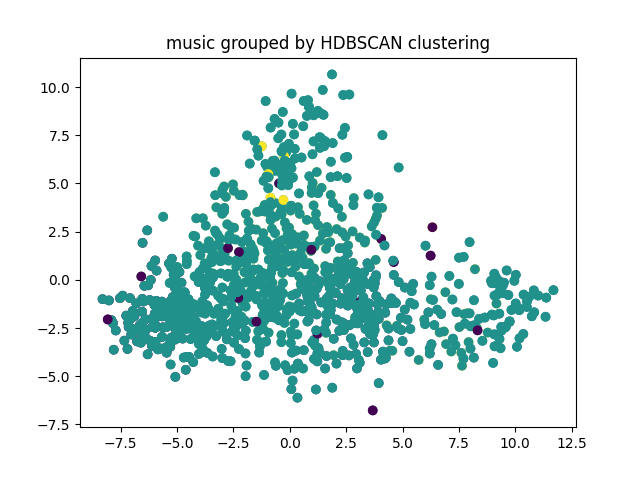
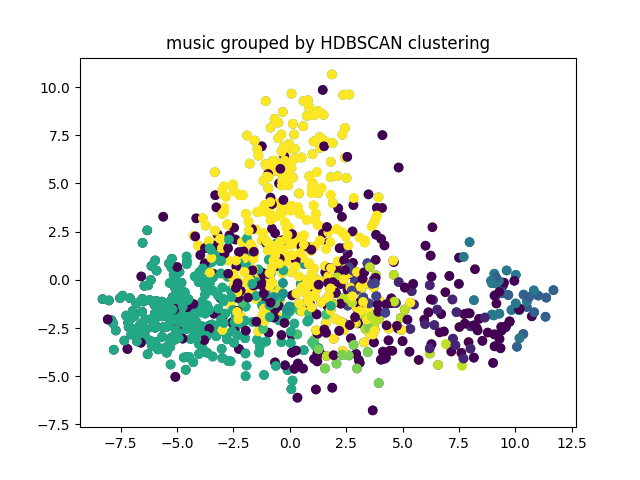
updated images

diff --git a/src/main.py b/src/main.py
@@ -6,9 +6,8 @@ from sklearn.preprocessing import LabelEncoder
 
 import matplotlib.pyplot as plt 
 from recomend import *
+    
 
-def get_track_str(i,genres,tracks):
-    return f"{genres[i]}.{tracks[i]}"
 
 embeding_dir = "../embedings"
 
@@ -48,9 +47,13 @@ y_encoded = label_encoder.fit_transform(y_list)
 kmeans = KMeans(n_clusters=10, random_state=0, n_init="auto").fit(emb_list)
 y_kmeans = kmeans.labels_
 
-hdbscan = HDBSCAN().fit(emb_list)
+#for p in range(2,17):
+   # for p2 in range(2,17):
+
+hdbscan = HDBSCAN(min_cluster_size=10, min_samples=2).fit(emb_list)
 y_hdbscan = hdbscan.labels_
 
+#print(f"{p},{p2}, {len(set(y_hdbscan))}")
 dbscan= DBSCAN().fit(emb_list)
 y_dbscan = dbscan.labels_
 
